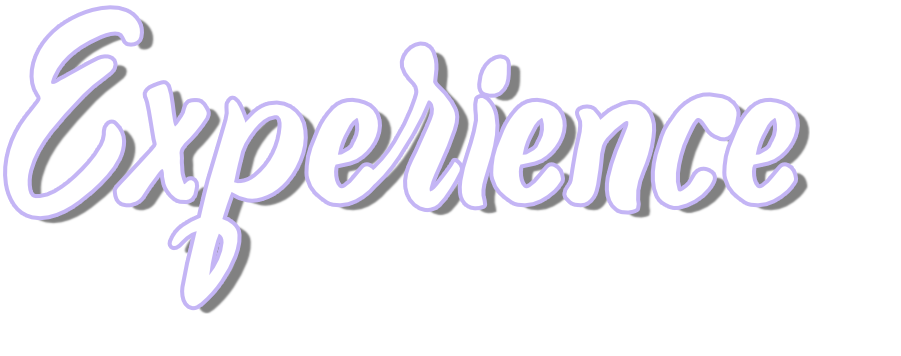
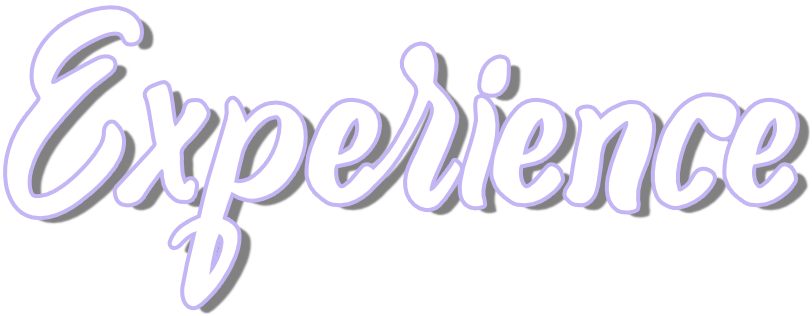
alpha 2.8.6
fixed title widths

Changed region(s): [[0.0, 0.0, 1.0, 0.9968]]

diff --git a/index.html b/index.html
@@ -283,9 +283,9 @@
 
       <!-- ABOUT SECTION BEGINS -->
       <section id="aboutSection" class="hero is-fullheight">
-        <div class="columns is-gapless is-desktop is-vcentered">
-          <div id="aboutCover" class="column is-half-desktop">
-            <img class="coverTitles" src="img/abouttitle.png" />
+        <div class="columns is-gapless is-vcentered">
+          <div id="aboutCover" class="column">
+            <img id="aboutTitle" src="img/abouttitle.png" />
           </div><!-- End of SVG column -->
 
           <div id="aboutInfo" class="column is-half-desktop">

diff --git a/main.css b/main.css
@@ -196,13 +196,22 @@ svg.icon:hover{
   bottom: 5%;
 }
 
-.coverTitles{
+#aboutTitle, .coverTitles{
+  max-width: 100%;
+  height: auto;
   position: absolute;
-  display: flex;
-  align-self: center;
   bottom: 5%;
-
+  /*width: 75%;*/
 }
+
+#aboutTitle{
+  width: 40%;
+}
+
+.coverTitles{
+  width: 75%;
+}
+
 /*
 
   ABOUT SECTION CSS STARTS HERE
